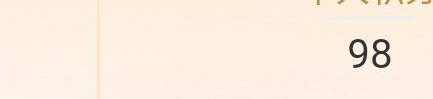
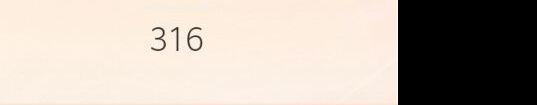
增加ocr错误照片上报和分数统计

Changed region(s): [[0.7206, 0.0, 1.0, 1.0], [0.2702, 0.2424, 0.3903, 0.4848]]

diff --git a/main.py b/main.py
@@ -3,7 +3,7 @@ Descripttion:
 version: 
 Author: Catop
 Date: 2021-02-10 07:47:09
-LastEditTime: 2021-02-13 21:30:54
+LastEditTime: 2021-02-14 10:57:26
 '''
 #coding:utf-8
 
@@ -97,16 +97,16 @@ def readMsg(user_id,message):
                 upload_date = time.strftime("%Y-%m-%d", time.localtime()) 
                 time.sleep(1)
                 #ocr_err_upload(user_id,user_class,upload_date)
-                ocr_err_upload(user_id,user_class,'2021-02-12')
-            elif('打包'in message):
                 ocr_err_upload(user_id,user_class,upload_date)
+                send_images_info(user_id,user_class)
+            elif('打包'in message):
                 cmp_ret = compress.zip_file(upload_date,dbconn.get_user(user_id)['user_class'])
                 goapi.sendMsg(user_id,f"---打包完毕---\n共处理:{cmp_ret['file_num']}张照片")
                 goapi.sendMsg(user_id,'下载地址:http://static.catop.top:8001/'+urllib.parse.quote(cmp_ret['file_name']))
             elif('成员'in message):
                 list_class_menbers(user_id,user_class)
             else:
-                goapi.sendMsg(user_id,"目前支持以下管理指令呢：\n群提醒\n提醒\n打包\n成员")
+                goapi.sendMsg(user_id,"目前支持以下管理指令呢：\n群提醒\n提醒\n打包\n成员\n")
         else:
             
             goapi.sendMsg(user_id,"无管理权限")
@@ -235,17 +235,44 @@ def list_class_menbers(user_id,user_class):
 def ocr_err_upload(user_id,user_class,upload_date):
     """为管理员上报ocr错误的图片"""
     msg = "OCR无法识别以下图片:\n"
-    err_list = dbconn.get_ocr_err(user_class,upload_date)
-    group_menbers = dbconn.get_class_members(user_class)
+    err_list = []
+    class_menbers = dbconn.get_class_members(user_class)
+    for i in range(0,len(class_menbers)):
+        img_date = dbconn.check_status(class_menbers[i])
+        if(str(img_date) == str(upload_date)):
+            img_info = dbconn.get_latest_img_info(class_menbers[i],upload_date)[0]
+            #print(img_info)
+            if(img_info['ocr_err_code'] == 1):
+                print(img_info)
+                err_list.append(img_info['file_name'])
+
     for i in range(0,len(err_list)):
-        cqCode = f"[CQ:image,file=file:{os.getcwd()}/images{err_list[i]['file_name']}]"
+        cqCode = f"[CQ:image,file=file:{os.getcwd()}/images{err_list[i]}]"
         msg += f"{cqCode}\n"
-    msg += f"数量:{len(err_list)}/{len(group_menbers)}"
+    msg += f"数量:{len(err_list)}/{len(class_menbers)}"
 
     goapi.sendMsg(user_id,msg)
     return msg
 
+def send_images_info(user_id,user_class):
+    """上报班级图片情况（次数和成绩）"""
+    class_menbers = dbconn.get_class_members(user_class)
+    today_upload_count = 0
+    upload_date = time.strftime("%Y-%m-%d", time.localtime()) 
+    msg = f"{user_class} {upload_date}情况:\n"
+    for i in range(0,len(class_menbers)):
+        if(str(dbconn.check_status(class_menbers[i])) == str(upload_date)):
+            today_upload_count += 1
+            img_info = dbconn.get_latest_img_info(class_menbers[i],upload_date)[0]
+            if(img_info['ocr_err_code'] == 0):
+                msg += f"{dbconn.get_user(class_menbers[i])['user_name']} 次数{img_info['ocr_times']} 分数{img_info['ocr_scores']}\n"
+            else:
+                msg += f"{dbconn.get_user(class_menbers[i])['user_name']} 未识别到\n"
+    
+    msg += f"共计{today_upload_count}张照片"
 
+    goapi.sendMsg(user_id,msg)
+    return msg
 
 
 
@@ -255,3 +282,5 @@ if __name__ == '__main__':
     #goapi.sendMsg('29242764','[CQ:image,file=file:/Users/catop/Desktop/ChangZhengBot/go-cq/res1.png]')
     #print(ocr_err_upload('29242764','信安20-2','2021-02-13'))
     #goapi.sendMsg('29242764','[CQ:image,file=file:/Users/catop/Desktop/ChangZhengBot/images/2021-02-13/信安20-2/信安20-2班-张宏远-20210213.jpg]')
+    #ocr_err_upload('601179193','信安20-2','2021-02-13')
+    #print(send_images_info('29242764','信安20-2'))

diff --git a/dbconn.py b/dbconn.py
@@ -3,7 +3,7 @@ Descripttion:
 version: 
 Author: Catop
 Date: 2021-02-10 09:10:27
-LastEditTime: 2021-02-13 10:43:37
+LastEditTime: 2021-02-14 10:25:14
 '''
 #coding:utf-8
 import pymysql
@@ -139,10 +139,11 @@ def get_class_members(user_class):
     return class_menbers
 
 
-def get_ocr_err(user_class,upload_date):
+def get_latest_img_info(user_id,upload_date):
+    """获取指定用户指定时间最新照片信息"""
     cursor = conn.cursor(cursor=pymysql.cursors.DictCursor)
-    params = [user_class,upload_date]
-    sql = f"SELECT imginfo.file_name,imginfo.user_id,userinfo.user_name FROM imginfo,userinfo WHERE (userinfo.user_class=%s AND imginfo.upload_date=%s AND imginfo.ocr_err_code=1 AND imginfo.user_id=userinfo.user_id)"
+    params = [user_id,upload_date]
+    sql = f"SELECT * FROM imginfo WHERE (user_id=%s AND upload_date=%s) ORDER BY imgid DESC LIMIT 1"
     conn.ping(reconnect=True)
     cursor.execute(sql,params)
     sql_ret = cursor.fetchall()
@@ -150,16 +151,10 @@ def get_ocr_err(user_class,upload_date):
 
     return sql_ret
 
-def get_img_info(file_name):
-    cursor = conn.cursor(cursor=pymysql.cursors.DictCursor)
-    params = [file_name]
-    sql = f"SELECT * FROM imginfo WHERE file_name=%s ORDER BY imgid DESC LIMIT 1"
-    conn.ping(reconnect=True)
-    cursor.execute(sql,params)
-    sql_ret = cursor.fetchall()
-    conn.commit()
 
-    return sql_ret
+
+
+
 
 
 if __name__=='__main__':
@@ -169,5 +164,5 @@ if __name__=='__main__':
     #print(register_user('29242764','李四','信安20-1'))
     #print(check_status(601179193))
     #print(get_class_members('信安20-2'))
-    #print(get_ocr_err('信安20-2','2021-02-12'))
-    print(get_img_info('/2021-02-13/信安20-2/信安20-2班-刘佰航-20210213.jpg'))
+    print(get_latest_img_info('601179193','2021-02-13'))
+    

diff --git a/ocrplus.py b/ocrplus.py
@@ -113,3 +113,6 @@ def ocr_img(imgname,debug=0):
         res['个人积分']="error"
         res['reason']="可能是字体原因"
         return res
+
+if __name__ == '__main__':
+    print(ocr_img('images/2021-02-13/信安20-2/信安20-2班-薛丰-20210213.jpg'))
